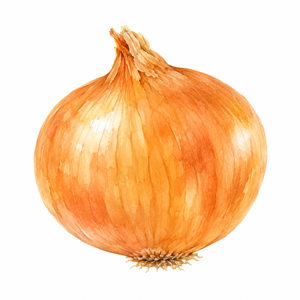
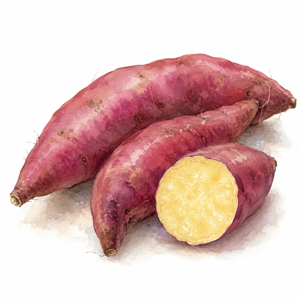
カテゴリ・分類バッジ削除、地域選択を検索欄下に移動、サツマイモ画像更新

diff --git a/src/pages/HomePage.tsx b/src/pages/HomePage.tsx
@@ -1,26 +1,20 @@
 import { useState, useEffect } from 'react';
 import { useSearchParams } from 'react-router-dom';
-import { Region, REGION_LABELS, VegetableCategory, CATEGORY_LABELS, VegetableClassification } from '../types';
+import { Region, REGION_LABELS } from '../types';
 import { vegetables, getVegetablesByMonth } from '../data/vegetables';
 import { VegetableCard } from '../components/VegetableCard';
 import { VegetableBanner } from '../components/VegetableBanner';
+import { RegionSelector } from '../components/RegionSelector';
 import styles from './HomePage.module.css';
 
 interface Props {
   region: Region;
+  onRegionChange: (r: Region) => void;
 }
 
 type SeasonFilter = 'all' | 'tanemaki';
-type ClassificationFilter = VegetableClassification | 'all';
 
 const MONTH_NAMES_JP = ['1月','2月','3月','4月','5月','6月','7月','8月','9月','10月','11月','12月'];
-
-const CLASSIFICATION_LABELS: { value: ClassificationFilter; label: string; color: string }[] = [
-  { value: 'all', label: 'すべて', color: '#2d6a2d' },
-  { value: '指定野菜', label: '🏅 指定野菜', color: '#1b5e20' },
-  { value: '特定野菜', label: '⭐ 特定野菜', color: '#558b2f' },
-  { value: 'その他', label: '🌿 その他', color: '#616161' },
-];
 
 const REFERENCE_SITES = [
   { name: 'タキイ種苗 栽培マニュアル', url: 'https://www.takii.co.jp/tsk/manual/' },
@@ -31,7 +25,7 @@ const REFERENCE_SITES = [
   { name: '小林種苗 種・苗一覧', url: 'https://www.kobayashi-seed.com/view/page/seed' },
 ];
 
-export function HomePage({ region }: Props) {
+export function HomePage({ region, onRegionChange }: Props) {
   const today = new Date();
   const currentMonth = today.getMonth() + 1;
   const [searchParams, setSearchParams] = useSearchParams();
@@ -44,8 +38,6 @@ export function HomePage({ region }: Props) {
     const s = searchParams.get('season');
     return s === 'tanemaki' ? 'tanemaki' : 'all';
   });
-  const [classificationFilter, setClassificationFilter] = useState<ClassificationFilter>('all');
-  const [categoryFilter, setCategoryFilter] = useState<VegetableCategory | 'all'>('all');
   const [search, setSearch] = useState('');
 
   useEffect(() => {
@@ -65,8 +57,6 @@ export function HomePage({ region }: Props) {
   const handleShowAll = () => {
     setSelectedMonth(currentMonth);
     setSeasonFilter('all');
-    setClassificationFilter('all');
-    setCategoryFilter('all');
     setSearch('');
     setSearchParams({});
   };
@@ -76,17 +66,12 @@ export function HomePage({ region }: Props) {
   // 種まき・定植の合算（重複除く）
   const tanemakiIds = new Set([...sowingIds, ...plantingIds]);
 
-  const CLASS_ORDER: Record<string, number> = { '指定野菜': 0, '特定野菜': 1, 'その他': 2 };
-
   const filtered = vegetables
     .filter(v => {
       if (seasonFilter === 'tanemaki' && !tanemakiIds.has(v.id)) return false;
-      if (classificationFilter !== 'all' && v.classification !== classificationFilter) return false;
-      if (categoryFilter !== 'all' && v.category !== categoryFilter) return false;
       if (search && !v.name.includes(search) && !v.nameRoma.toLowerCase().includes(search.toLowerCase())) return false;
       return true;
-    })
-    .sort((a, b) => CLASS_ORDER[a.classification] - CLASS_ORDER[b.classification]);
+    });
 
   function getHighlight(id: string): 'sowing' | 'planting' | undefined {
     if (sowingIds.has(id)) return 'sowing';
@@ -140,7 +125,7 @@ export function HomePage({ region }: Props) {
         </button>
       </div>
 
-      {/* 検索・フィルター */}
+      {/* 検索・地域フィルター */}
       <div className={styles.filters}>
         <input
           type="search"
@@ -149,34 +134,9 @@ export function HomePage({ region }: Props) {
           onChange={e => setSearch(e.target.value)}
           className={styles.search}
         />
-        <div className={styles.classificationTabs}>
-          {CLASSIFICATION_LABELS.map(item => (
-            <button
-              key={item.value}
-              className={`${styles.classificationTab} ${classificationFilter === item.value ? styles.activeClassificationTab : ''}`}
-              onClick={() => setClassificationFilter(item.value)}
-              style={{ '--classification-color': item.color } as React.CSSProperties}
-            >
-              {item.label}
-            </button>
-          ))}
-        </div>
-        <div className={styles.categoryTabs}>
-          <button
-            className={`${styles.catTab} ${categoryFilter === 'all' ? styles.activeTab : ''}`}
-            onClick={() => setCategoryFilter('all')}
-          >
-            すべて
-          </button>
-          {CATEGORY_LABELS.map(cat => (
-            <button
-              key={cat}
-              className={`${styles.catTab} ${categoryFilter === cat ? styles.activeTab : ''}`}
-              onClick={() => setCategoryFilter(cat)}
-            >
-              {cat}
-            </button>
-          ))}
+        <div className={styles.regionRow}>
+          <span className={styles.regionLabel}>地域:</span>
+          <RegionSelector region={region} onChange={onRegionChange} />
         </div>
       </div>
 

diff --git a/src/components/VegetableCard.tsx b/src/components/VegetableCard.tsx
@@ -23,12 +23,6 @@ export function VegetableCard({ vegetable, region, highlight }: Props) {
     planting: '#fff8e1',
     harvest: '#fce4ec',
   };
-  const classificationBadge = vegetable.classification === '指定野菜'
-    ? { label: '指定', background: '#1b5e20' }
-    : vegetable.classification === '特定野菜'
-      ? { label: '特定', background: '#558b2f' }
-      : undefined;
-
   return (
     <Link
       to={`/vegetable/${vegetable.id}`}
@@ -51,24 +45,6 @@ export function VegetableCard({ vegetable, region, highlight }: Props) {
       </div>
       <div className={styles.cardBody}>
         <div className={styles.name}>{vegetable.name}</div>
-        <div style={{ display: 'flex', alignItems: 'center', justifyContent: 'center', gap: 4, flexWrap: 'wrap' }}>
-          <div className={styles.category}>{vegetable.category}</div>
-          {classificationBadge && (
-            <span
-              style={{
-                background: classificationBadge.background,
-                color: 'white',
-                borderRadius: 10,
-                padding: '2px 7px',
-                fontSize: 11,
-                fontWeight: 700,
-                lineHeight: 1.2,
-              }}
-            >
-              {classificationBadge.label}
-            </span>
-          )}
-        </div>
         {monthLabels.length > 0 && (
           <div className={styles.months}>
             {highlight === 'harvest' ? '収穫: ' : '種まき: '}

diff --git a/src/pages/HomePage.module.css b/src/pages/HomePage.module.css
@@ -158,6 +158,20 @@
   border-color: #2d6a2d;
 }
 
+.regionRow {
+  display: flex;
+  align-items: center;
+  gap: 8px;
+  margin-bottom: 8px;
+}
+
+.regionLabel {
+  font-size: 13px;
+  color: #555;
+  font-weight: 600;
+  white-space: nowrap;
+}
+
 .categoryTabs {
   display: flex;
   gap: 6px;

diff --git a/src/App.tsx b/src/App.tsx
@@ -1,7 +1,6 @@
 import { useState } from 'react';
 import { BrowserRouter, Routes, Route, NavLink } from 'react-router-dom';
 import { Region } from './types';
-import { RegionSelector } from './components/RegionSelector';
 import { CalendarPage } from './pages/CalendarPage';
 import { HomePage } from './pages/HomePage';
 import { VegetableDetailPage } from './pages/VegetableDetailPage';
@@ -28,16 +27,12 @@ function AppContent() {
               🌱 野菜 種まきカレンダー
             </NavLink>
           </div>
-          <div className={styles.regionWrap}>
-            <span className={styles.regionLabel}>地域:</span>
-            <RegionSelector region={region} onChange={handleRegionChange} />
-          </div>
         </div>
       </header>
 
 <main className={styles.main}>
         <Routes>
-          <Route path="/" element={<HomePage region={region} />} />
+          <Route path="/" element={<HomePage region={region} onRegionChange={handleRegionChange} />} />
           <Route path="/calendar" element={<CalendarPage region={region} />} />
           <Route path="/vegetable/:id" element={<VegetableDetailPage region={region} />} />
         </Routes>